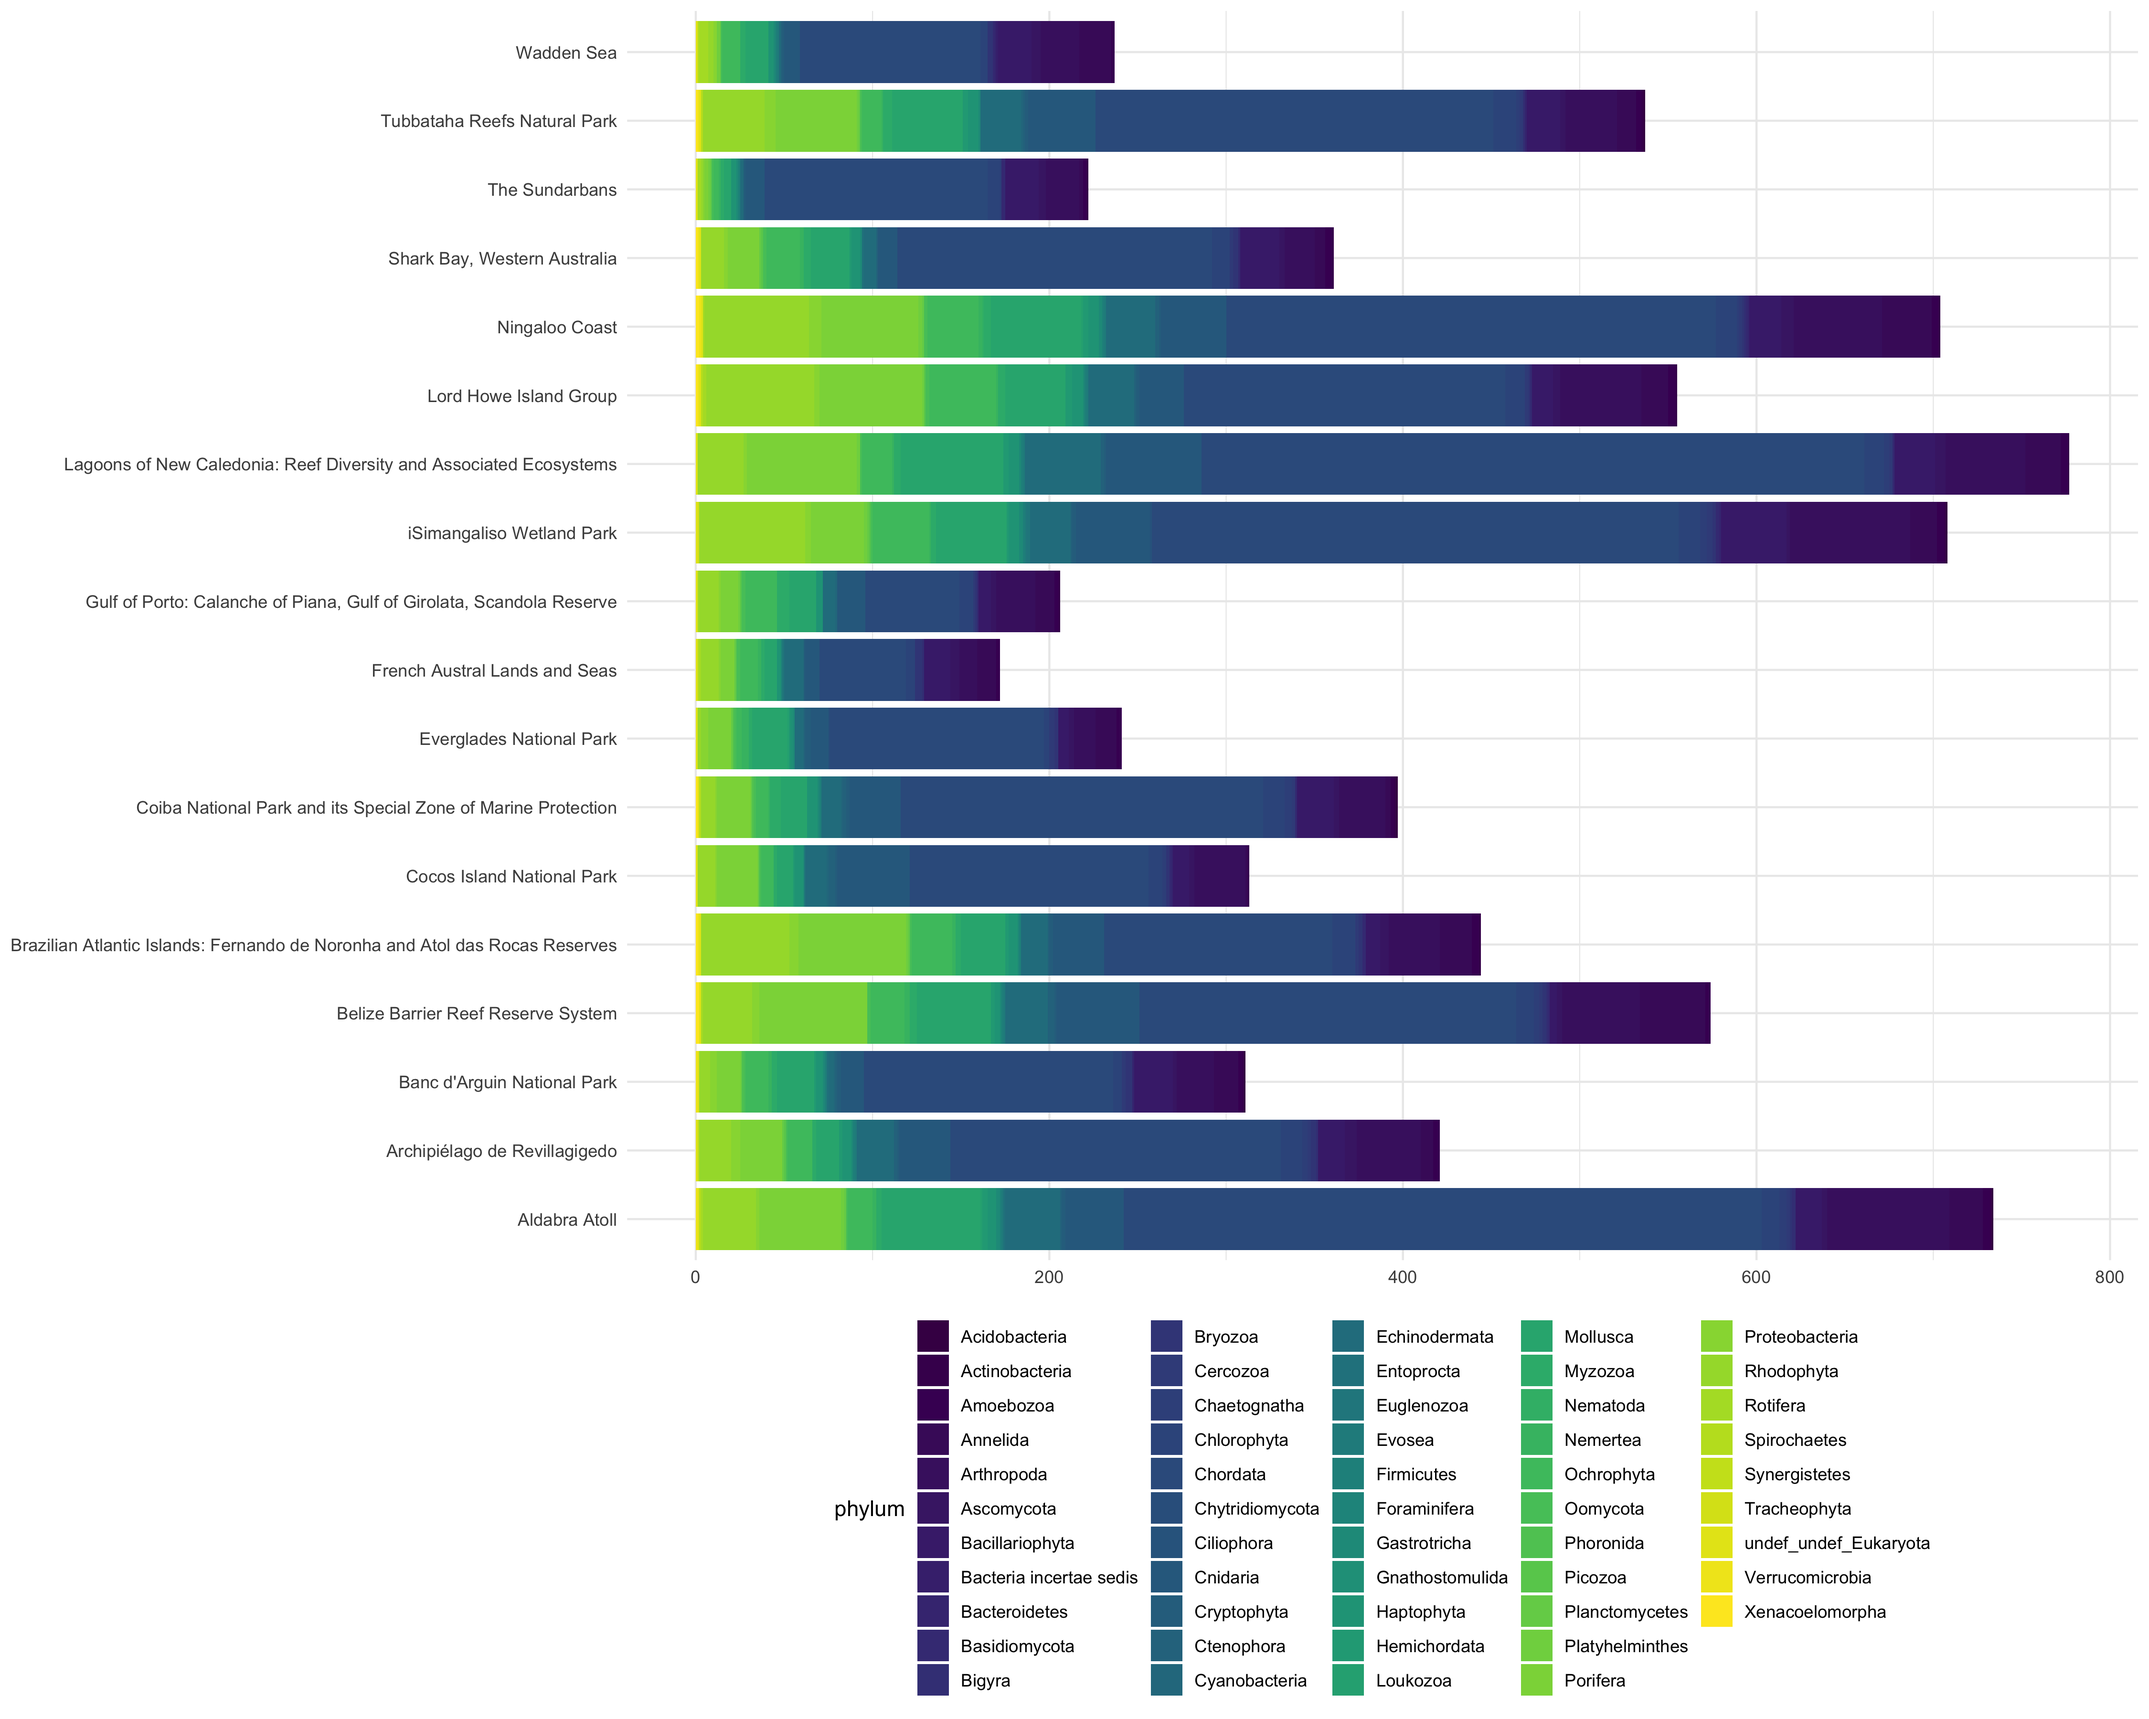
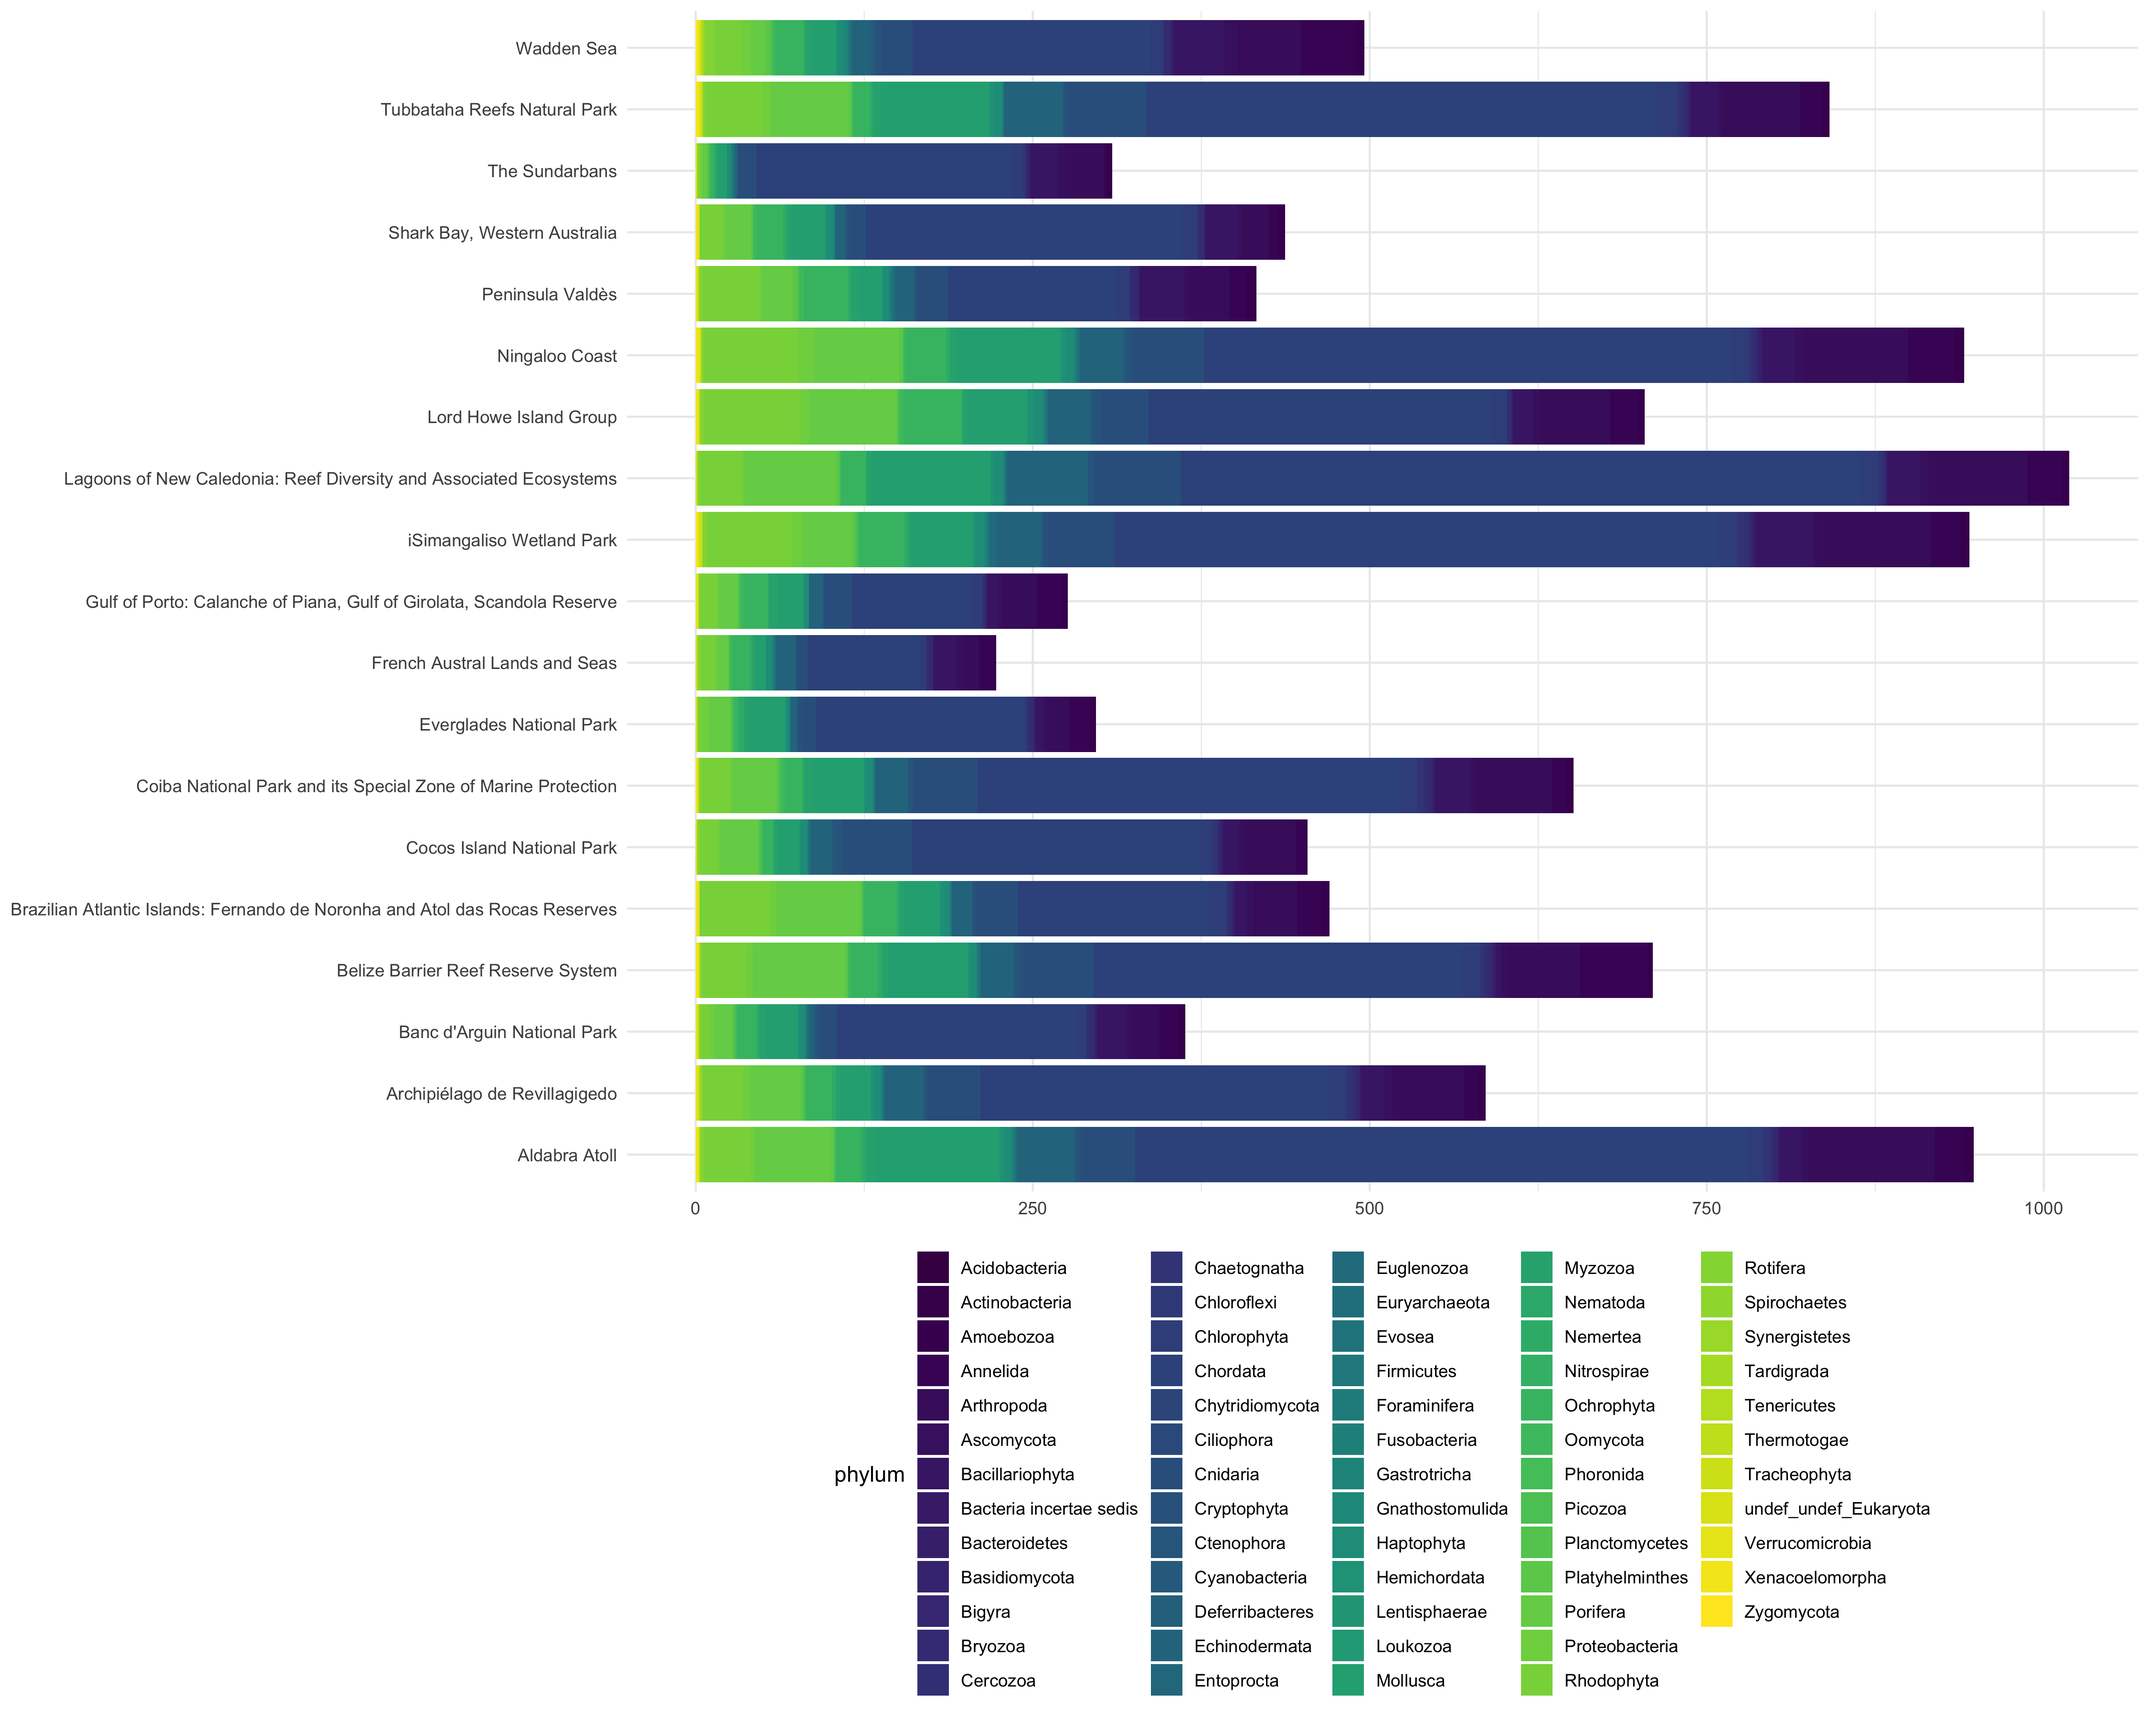
documentation

diff --git a/docs/read.md b/docs/read.md
@@ -8,8 +8,8 @@ Read the individual Occurrence and DNADerivedData files, and join them:
     library(stringr)
     library(purrr)
 
-    dna_files <- list.files("./data", "*DNADerivedData*", full.names = TRUE)
-    occurrence_files <- list.files("./data", "*Occurrence*", full.names = TRUE)
+    dna_files <- list.files("../output", "*DNADerivedData*", full.names = TRUE)
+    occurrence_files <- list.files("../output", "*Occurrence*", full.names = TRUE)
 
     dna <- map(dna_files, read.table, sep = "\t", quote = "", header = TRUE) %>%
       bind_rows() %>%
@@ -89,52 +89,52 @@ Inspect updated names:
 <tr class="odd">
 <td style="text-align: left;">Animalia</td>
 <td style="text-align: left;">Metazoa</td>
-<td style="text-align: right;">293593</td>
+<td style="text-align: right;">607990</td>
 </tr>
 <tr class="even">
 <td style="text-align: left;">Bellerochea polymorpha</td>
 <td style="text-align: left;">Minutocellus polymorphus</td>
-<td style="text-align: right;">858</td>
-</tr>
-<tr class="odd">
-<td style="text-align: left;">Callyspongia (Cladochalina) plicifera</td>
-<td style="text-align: left;">Callyspongia plicifera</td>
-<td style="text-align: right;">493</td>
-</tr>
-<tr class="even">
-<td style="text-align: left;">Neoparamoeba aestuarina</td>
-<td style="text-align: left;">Paramoeba aestuarina</td>
-<td style="text-align: right;">315</td>
+<td style="text-align: right;">1649</td>
 </tr>
 <tr class="odd">
 <td style="text-align: left;">Azurina atrilobata</td>
 <td style="text-align: left;">Chromis atrilobata</td>
-<td style="text-align: right;">260</td>
+<td style="text-align: right;">931</td>
+</tr>
+<tr class="even">
+<td style="text-align: left;">Callyspongia (Cladochalina) plicifera</td>
+<td style="text-align: left;">Callyspongia plicifera</td>
+<td style="text-align: right;">640</td>
+</tr>
+<tr class="odd">
+<td style="text-align: left;">Neoparamoeba aestuarina</td>
+<td style="text-align: left;">Paramoeba aestuarina</td>
+<td style="text-align: right;">584</td>
 </tr>
 <tr class="even">
 <td style="text-align: left;">Coscinodiscophycidae</td>
 <td style="text-align: left;">Coscinodiscophyceae</td>
-<td style="text-align: right;">226</td>
+<td style="text-align: right;">510</td>
 </tr>
 <tr class="odd">
 <td style="text-align: left;">Platybelone argalus</td>
 <td style="text-align: left;">Platybelone argala</td>
-<td style="text-align: right;">203</td>
+<td style="text-align: right;">428</td>
 </tr>
 <tr class="even">
 <td style="text-align: left;">Acartia (Acanthacartia) tonsa</td>
 <td style="text-align: left;">Acartia tonsa</td>
-<td style="text-align: right;">160</td>
+<td style="text-align: right;">386</td>
 </tr>
 <tr class="odd">
-<td style="text-align: left;">Eucampia striata</td>
-<td style="text-align: left;">Guinardia striata</td>
-<td style="text-align: right;">143</td>
+<td style="text-align: left;">Istiblennius edentulus</td>
+<td style="text-align: left;">Istiblennius enosimae</td>
+<td style="text-align: right;">336</td>
 </tr>
 <tr class="even">
 <td style="text-align: left;">Sundstroemia setigera</td>
 <td style="text-align: left;">Rhizosolenia setigera</td>
-<td style="text-align: right;">137</td>
+<td style="text-align: right;">314</td>
 </tr>
 </tbody>
 </table>

diff --git a/README.md b/README.md
@@ -3,10 +3,15 @@
 This is a workflow for processing eDNA results from the [eDNA Expeditions project](https://www.unesco.org/en/edna-expeditions) into an integrated dataset. Source data are fetched from [pacman-pipeline-results](https://github.com/iobis/pacman-pipeline-results) and [edna-tracker-data](https://github.com/iobis/edna-tracker-data).
 
 ## How to read this dataset
-
 ### Download the dataset
 
-Download the zipped dataset from <https://obis-edna-results.s3.amazonaws.com/output.zip>.
+Download the zipped dataset from <https://obis-edna-results.s3.amazonaws.com/output.zip> and extract.
+
+```bash
+rm -r output output.zip
+wget https://obis-edna-results.s3.amazonaws.com/output.zip
+unzip output.zip
+```
 
 ### Read the dataset using R
 
